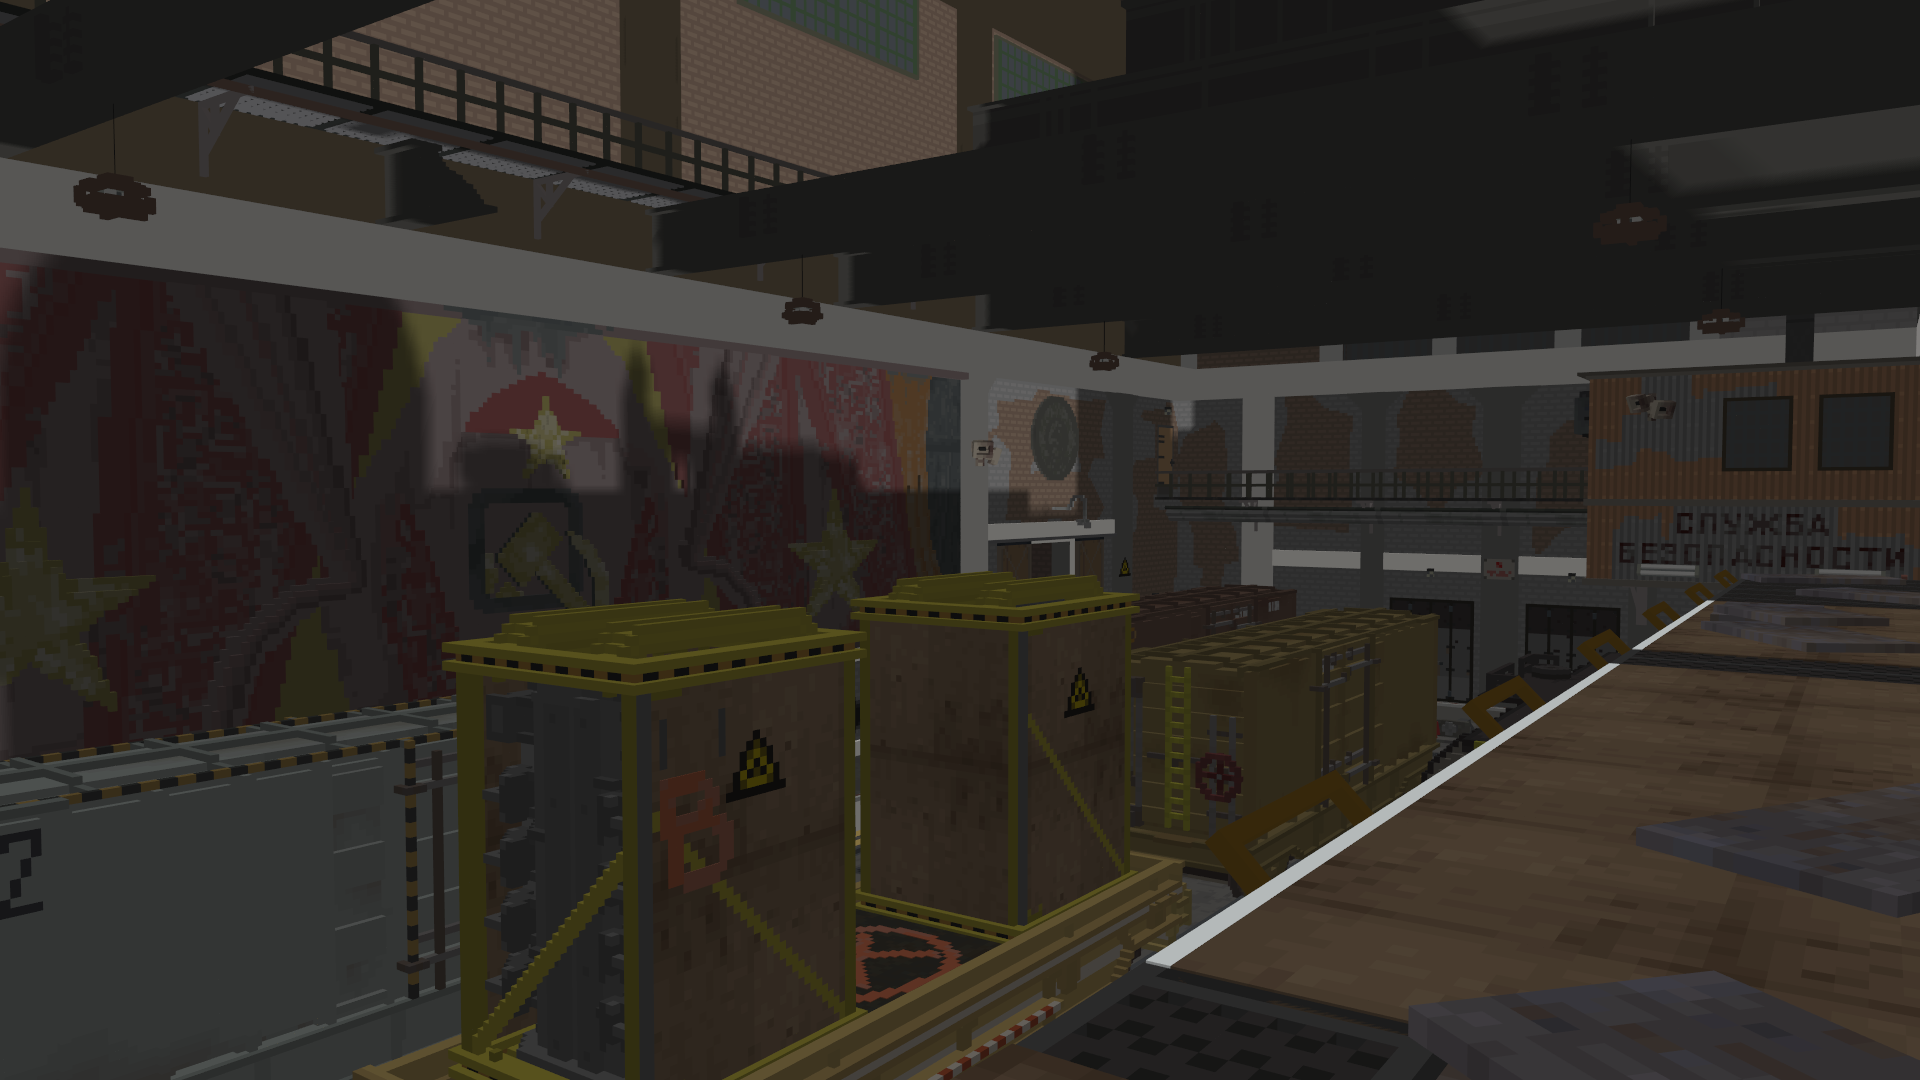
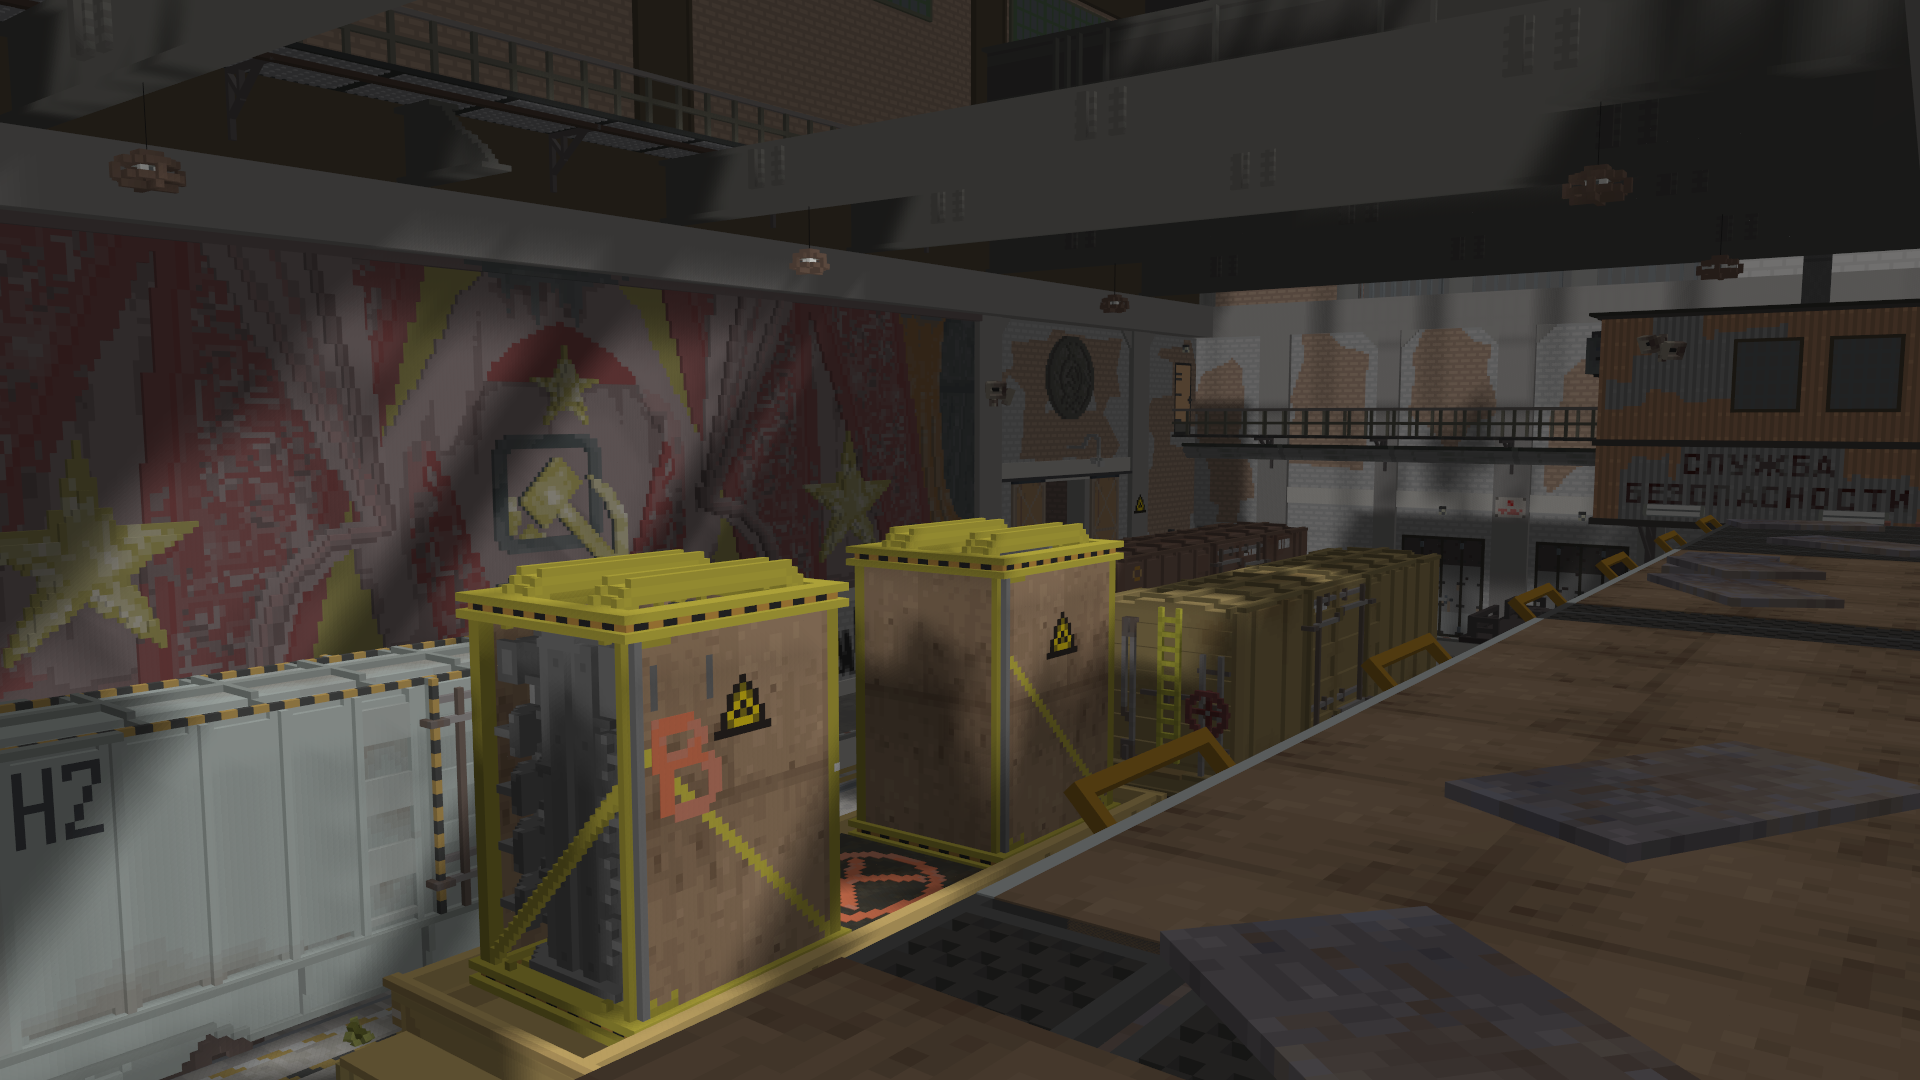
Fix normals

diff --git a/main.cpp b/main.cpp
@@ -165,7 +165,7 @@ public:
 	}
 
 	void pushProjection(Shader& shader) {
-		mat4 orthgonalProjection = ortho(-45.0f, 45.0f, -45.0f, 45.0f, 0.1f, 500.0f);
+		mat4 orthgonalProjection = ortho(-90.0f, 90.0f, -90.0f, 90.0f, 0.1f, 500.0f);
 		mat4 lightView = lookAt(lightPos, vec3(0.0f, 0.0f, 0.0f), vec3(0.0f, 1.0f, 0.0f));
 		lightProjection = orthgonalProjection * lightView;
 		shader.Use();
@@ -280,6 +280,7 @@ int main(int argc, char* argv[]) {
 		shadow_map.BindShadowMap();
 		scene.draw(shadowmap_shader, camera);
 		scene.drawVoxbox(shadowmap_shader, camera);
+// TODO: Use Transform(x, y, z, _, b, _)
 //		model.draw(shadowmap_shader, camera, vec3(12, 4.3, 30), angleAxis(radians(170.0f), vec3(0, 1, 0)));
 		shadow_map.UnbindShadowMap(camera);
 

diff --git a/src/greedy_mesh.cpp b/src/greedy_mesh.cpp
@@ -96,7 +96,7 @@ GreedyMesh generateGreedyMesh(MV_Shape shape) {
 						vec3 p1 = vec3(x[0] + du[0],		 x[1] + du[1],		   x[2] + du[2]);
 						vec3 p2 = vec3(x[0] + dv[0],		 x[1] + dv[1],		   x[2] + dv[2]);
 						vec3 p3 = vec3(x[0] + du[0] + dv[0], x[1] + du[1] + dv[1], x[2] + du[2] + dv[2]);
-						vec3 normal = cross(p1 - p0, p2 - p0);
+						vec3 normal = -cross(p1 - p0, p2 - p0);
 						uint8_t index = c > 0 ? c : -c;
 
 						// Generate the indices first

diff --git a/README.md b/README.md
@@ -35,3 +35,4 @@ Mouse click + drag to look around
 Arrow keys, Q & E to move the light
 
 ![img0](https://raw.githubusercontent.com/TTFH/Voxel-Render/main/screenshots/img0.png)
+![img3](https://raw.githubusercontent.com/TTFH/Voxel-Render/main/screenshots/img3.png)
